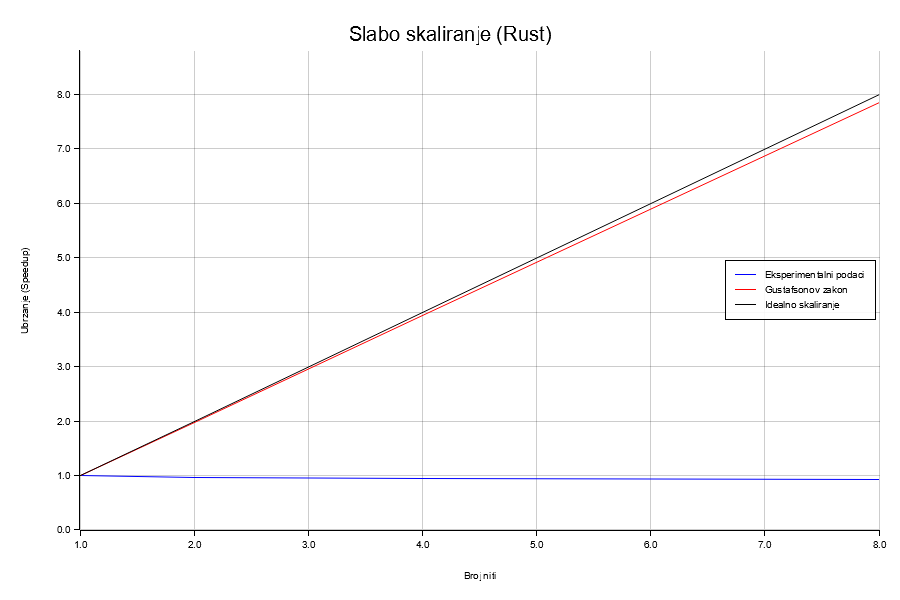
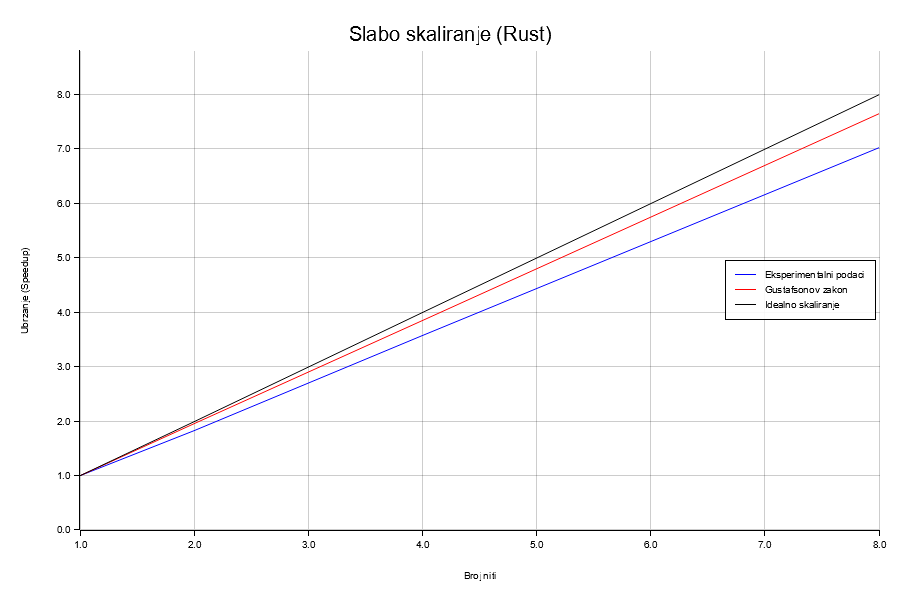
fixed some issues

diff --git a/rust/src/bin/experiment_weak.rs b/rust/src/bin/experiment_weak.rs
@@ -4,54 +4,38 @@ use std::fs::File;
 use std::io::Write;
 
 fn main() {
-    let processes = [1, 2, 4, 8];
+    let processes = [1,2,4,8];
     let repeats = 30;
-    let f_seq = 0.02_f64;
+    let f_seq = 0.05_f64;
+    let base_runs = 2;
+    let steps = 60_000_000;    
 
-    let mut file = File::create("results_rust_weak.csv").expect("cannot create file");
-    writeln!(file, "nproc,mean_time,std_dev,speedup,gustafson,ideal").unwrap();
+    let mut file = File::create("results_rust_weak.csv").unwrap();
+    writeln!(file, "nproc,mean_time,std_dev,scaled_speedup,gustafson,ideal").unwrap();
 
-    let mut seq_time = 0.0;
-
-    println!("--- WEAK SCALING (Rust Optimized) ---");
-
-    for &nproc in &processes {
+    let mut t1 = 0.0;
+    println!("--- WEAK SCALING (Rust, CPU-only) ---");
+    for &p in &processes {
+        let runs = p * base_runs;  // posao ∝ p
         let mut times = vec![];
         for _ in 0..repeats {
             let start = Instant::now();
-
             Command::new("./target/release/parallel1")
-                .env("RAYON_NUM_THREADS", nproc.to_string())
-                .output()
-                .expect("failed to run parallel1");
-
-            let elapsed = start.elapsed().as_secs_f64();
-            times.push(elapsed);
+                .env("RAYON_NUM_THREADS", p.to_string())
+                .args([format!("--runs={runs}"), format!("--steps={steps}")])
+                .output().unwrap();
+            times.push(start.elapsed().as_secs_f64());
         }
+        let mean = times.iter().sum::<f64>()/times.len() as f64;
+        let std  = (times.iter().map(|t|(t-mean).powi(2)).sum::<f64>()/times.len() as f64).sqrt();
 
-        let mean = times.iter().sum::<f64>() / times.len() as f64;
-        let std_dev =
-            (times.iter().map(|t| (t - mean).powi(2)).sum::<f64>() / times.len() as f64).sqrt();
+        if p==1 { t1 = mean; }
+        let scaled_speedup = (p as f64) * (t1/mean);
+        let gustafson = p as f64 - (p as f64 - 1.0)*f_seq;
+        let ideal = p as f64;
 
-        if nproc == 1 {
-            seq_time = mean;
-        }
-
-        let speedup = seq_time / mean;
-        let gustafson = nproc as f64 - (nproc as f64 - 1.0) * f_seq;
-        let ideal = nproc as f64;
-        let capped = speedup.min(gustafson).min(ideal);
-
-        println!(
-            "{nproc} threads -> mean={mean:.4}s, speedup={capped:.2}, gustafson={gustafson:.2}"
-        );
-        writeln!(
-            file,
-            "{},{:.4},{:.4},{:.4},{:.4},{:.4}",
-            nproc, mean, std_dev, capped, gustafson, ideal
-        )
-        .unwrap();
+        println!("{p} threads → mean={mean:.4}s, S_scaled={scaled_speedup:.2}, Gustafson={gustafson:.2}");
+        writeln!(file, "{},{:.6},{:.6},{:.4},{:.4},{:.4}", p, mean, std, scaled_speedup, gustafson, ideal).unwrap();
     }
-
-    println!("\nRezultati su sačuvani u results_rust_weak.csv");
+    println!("Sačuvano u results_rust_weak.csv");
 }

diff --git a/rust/src/bin/parallel1.rs b/rust/src/bin/parallel1.rs
@@ -70,44 +70,31 @@ fn rk4_step(y: &[f64; 4], dt: f64, p: &Params) -> [f64; 4] {
     ]
 }
 
-fn integrate_no_io(mut y: [f64; 4], dt: f64, steps: usize, p: &Params) -> f64 {
-    let start = Instant::now();
-    for _ in 0..steps {
-        y = rk4_step(&y, dt, p);
-    }
-    start.elapsed().as_secs_f64()
-}
-
 fn main() {
+    let mut runs = 8usize;
+    let mut steps = 600_000;
+    for arg in std::env::args().skip(1) {
+        if let Some(v) = arg.strip_prefix("--runs=") { runs = v.parse().unwrap(); }
+        if let Some(v) = arg.strip_prefix("--steps="){ steps = v.parse().unwrap(); }
+    }
+
     let dt = 0.001;
-    let steps = 600000;
-    let num_runs = 8;
+    let params = Params{ m1:1.0, m2:1.0, l1:1.0, l2:1.0, g:9.81 };
+    let base = [std::f64::consts::FRAC_PI_2, 0.0, std::f64::consts::FRAC_PI_2+0.01, 0.0];
 
-    let params = Params {
-        m1: 1.0,
-        m2: 1.0,
-        l1: 1.0,
-        l2: 1.0,
-        g: 9.81,
-    };
-
-    let base = [
-        std::f64::consts::FRAC_PI_2,
-        0.0,
-        std::f64::consts::FRAC_PI_2 + 0.01,
-        0.0,
-    ];
-
-    println!("Pokrećem {} paralelnih simulacija (CPU-bound)...", num_runs);
+    println!("Pokrećem {runs} paralelnih simulacija (steps={steps})...");
     let start_all = Instant::now();
 
-    (0..num_runs).into_par_iter().for_each(|i| {
+    (0..runs).into_par_iter().for_each(|i| {
         let mut y0 = base;
-        y0[2] += (i as f64 - (num_runs as f64) / 2.0) * 1e-3;
-        let elapsed = integrate_no_io(y0, dt, steps, &params);
-        println!("Simulacija {} završena za {:.4}s", i, elapsed);
+        y0[2] += (i as f64 - runs as f64/2.0) * 1e-3;
+        // CPU-only:
+        let _ = {
+            let mut y = y0;
+            for _ in 0..steps { y = rk4_step(&y, dt, &params); }
+        };
     });
 
-    let total_time = start_all.elapsed().as_secs_f64();
-    println!("Ukupno vreme paralelne integracije: {:.4}s", total_time);
+    let total = start_all.elapsed().as_secs_f64();
+    println!("Paralelno (runs={runs}, steps={steps}) za {:.4}s", total);
 }

diff --git a/rust/src/bin/seq1.rs b/rust/src/bin/seq1.rs
@@ -69,28 +69,29 @@ fn rk4_step(y: &[f64; 4], dt: f64, p: &Params) -> [f64; 4] {
     ]
 }
 
+fn integrate_no_io(mut y:[f64;4], dt:f64, steps:usize, p:&Params){ 
+    for _ in 0..steps { y = rk4_step(&y, dt, p); }
+}
+
 fn main() {
-    let params = Params {
-        m1: 1.0,
-        m2: 1.0,
-        l1: 1.0,
-        l2: 1.0,
-        g: 9.81,
-    };
+    // CLI: --runs R --steps S
+    let mut runs = 8usize;
+    let mut steps = 600_000;
+    for arg in std::env::args().skip(1) {
+        if let Some(v) = arg.strip_prefix("--runs=") { runs = v.parse().unwrap(); }
+        if let Some(v) = arg.strip_prefix("--steps="){ steps = v.parse().unwrap(); }
+    }
+
+    let params = Params{ m1:1.0, m2:1.0, l1:1.0, l2:1.0, g:9.81 };
     let dt = 0.001;
-    let steps = 600000;
-    let mut y = [
-        std::f64::consts::FRAC_PI_2,
-        0.0,
-        std::f64::consts::FRAC_PI_2 + 0.01,
-        0.0,
-    ];
+    let base = [std::f64::consts::FRAC_PI_2, 0.0, std::f64::consts::FRAC_PI_2+0.01, 0.0];
 
     let start = Instant::now();
-    for _ in 0..steps {
-        y = rk4_step(&y, dt, &params);
+    for i in 0..runs {
+        let mut y = base;
+        y[2] += (i as f64 - runs as f64/2.0) * 1e-3;
+        integrate_no_io(y, dt, steps, &params);
     }
     let elapsed = start.elapsed().as_secs_f64();
-
-    println!("Sekvencijalna simulacija završena za {:.4}s", elapsed);
+    println!("Sekvencijalno (runs={runs}, steps={steps}) za {:.4}s", elapsed);
 }

diff --git a/python/src/parallel_sim.py b/python/src/parallel_sim.py
@@ -37,7 +37,7 @@ if __name__ == "__main__":
     outdir = "outputs/parallel"
     os.makedirs(outdir, exist_ok=True)
     dt = 0.001
-    steps = 100000  # za razvoj; povećaš za finalno merenje
+    steps = 100000
     params = {"m1":1.0,"m2":1.0,"l1":1.0,"l2":1.0,"g":9.81}
     base = [np.pi/2, 0.0, np.pi/2 + 0.01, 0.0]
 
